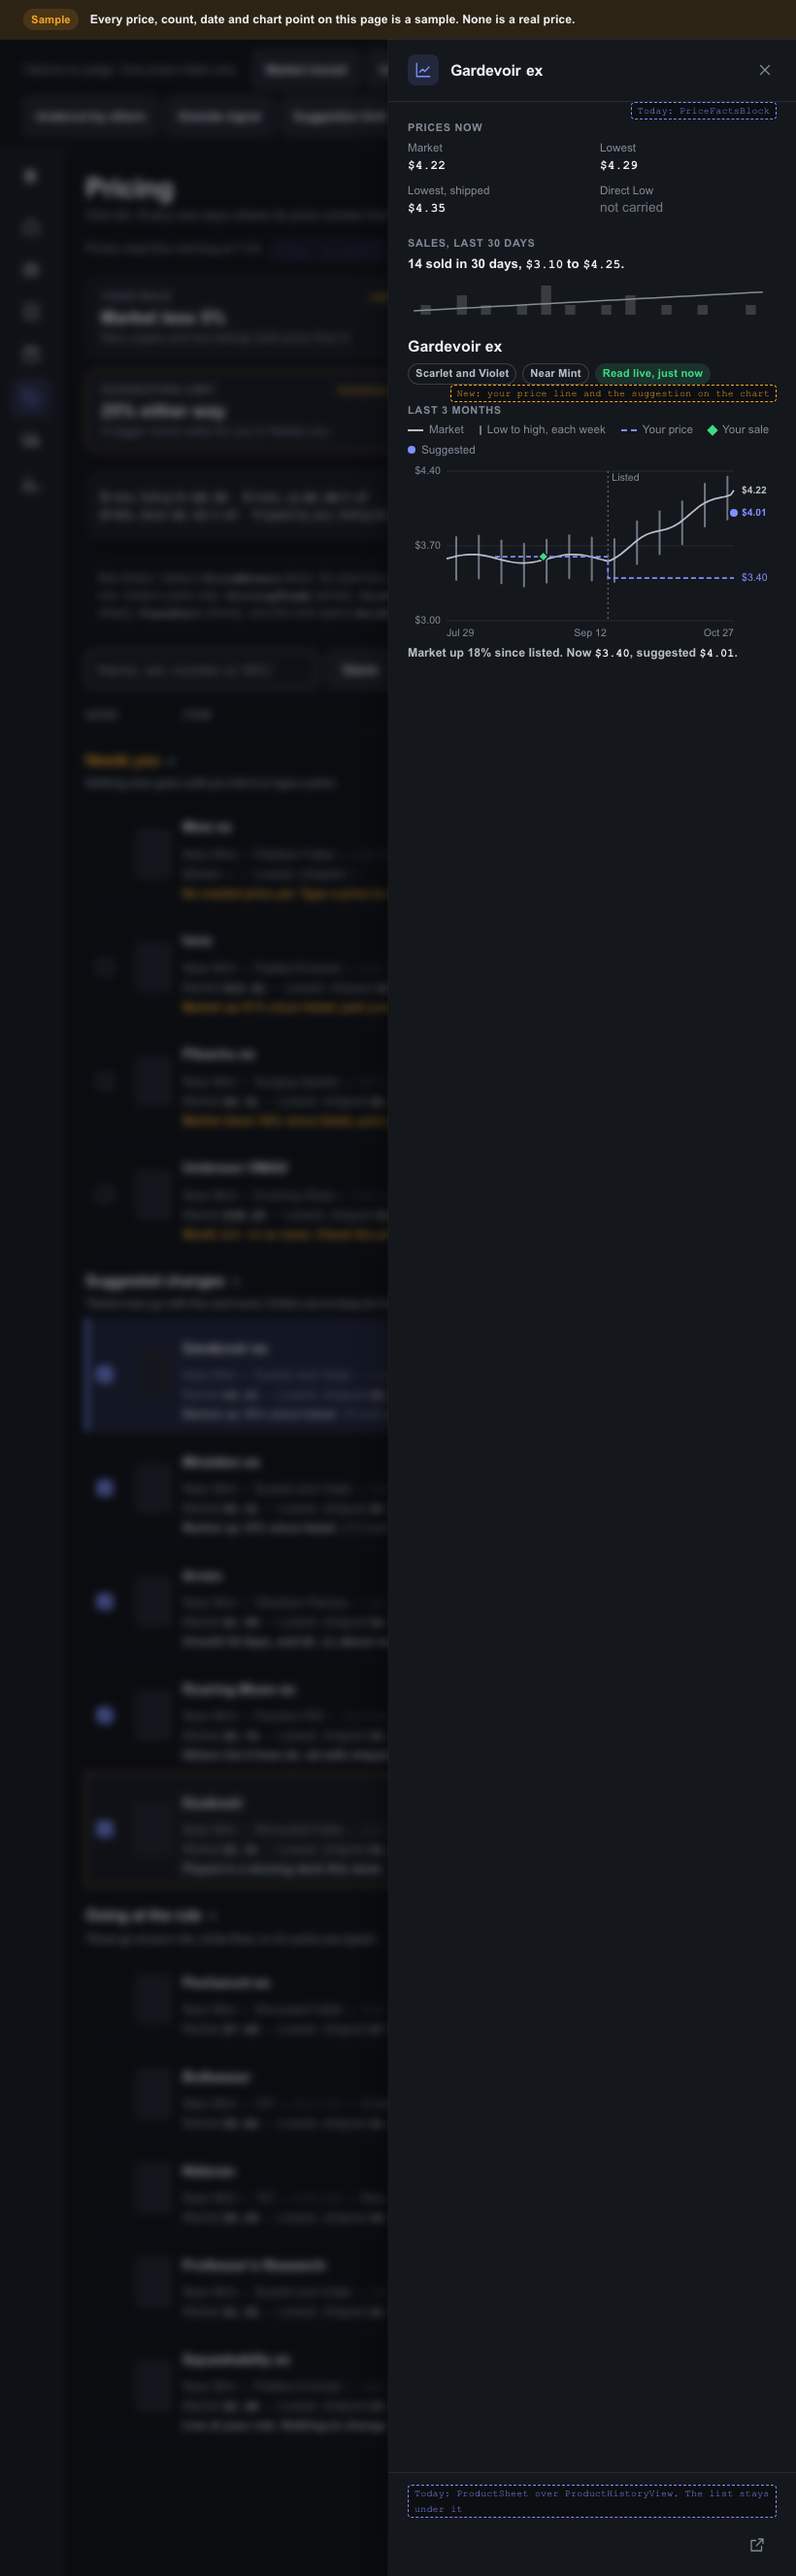
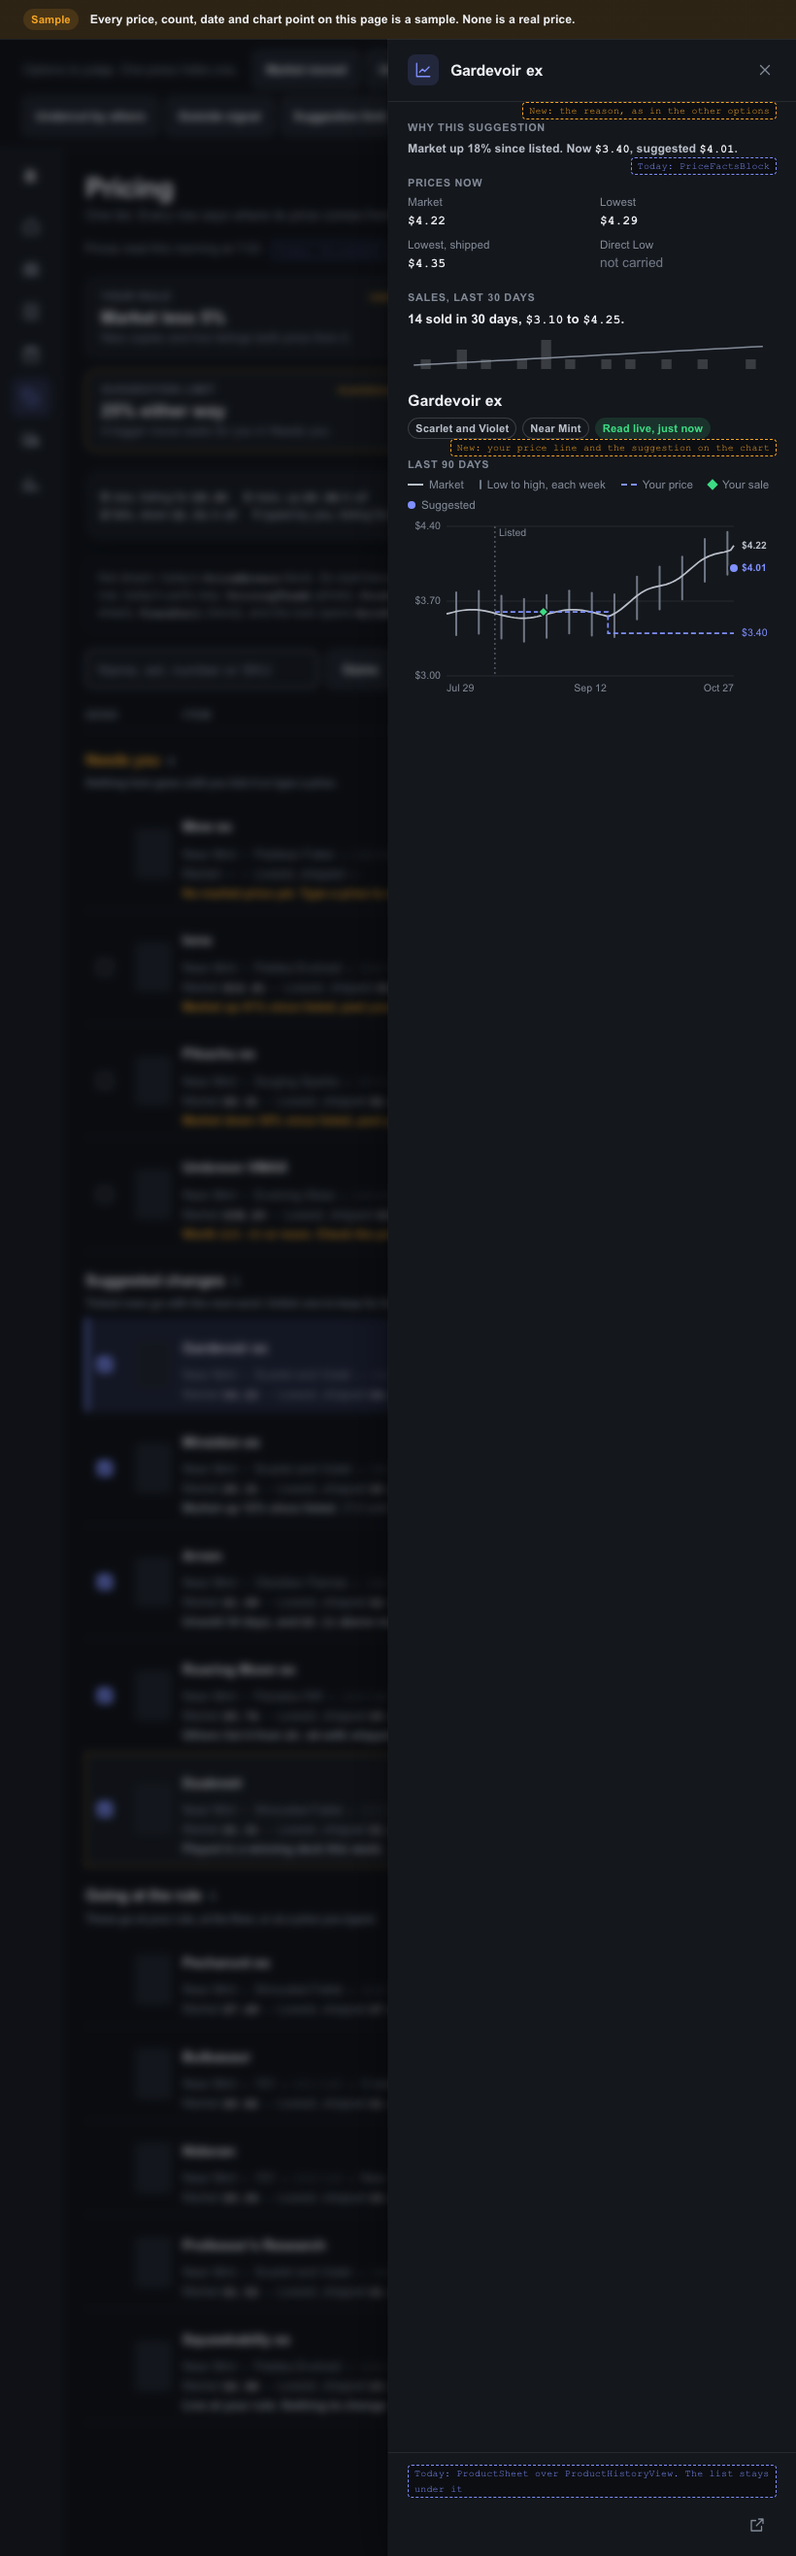
design: price history mockups, round 2 fixes
Done: the press note hides with the other notes, the sales bars match the sold count, the
sheet has the reason heading and a 90-day label, your price starts at listing, the row's
trend matches the chart, the open row's reason shows once.
Next: the owner picks one option.

diff --git a/docs/design/pricing-suggest/history-inline.html b/docs/design/pricing-suggest/history-inline.html
@@ -267,6 +267,7 @@
   .xp .today { bottom: auto; top: var(--bn-1); right: var(--bn-1); }
   .row[data-picked] { box-shadow: inset 3px 0 0 var(--bn-accent); background: var(--bn-surface); }
   .iconb[data-on] svg { transform: none; }
+  body.nonotes .press-note { display: none; }
   .press-note { grid-column: 1 / -1; font-size: var(--bn-fs-sm); color: var(--bn-ink-3); border: 1px dashed var(--bn-warn);
                 border-radius: var(--bn-r); padding: var(--bn-2) var(--bn-3); }
   .press-note b { color: var(--bn-ink); }
@@ -408,7 +409,7 @@
     ] },
     { g: 'suggested', title: 'Suggested changes', lede: 'Ticked rows go with the next send. Untick one to keep its live price.', rows: [
       { kind: 'live', name: 'Gardevoir ex', set: 'Scarlet and Violet', no: '086/198', market: 4.22, low: 4.35, now: 3.40, price: 4.01, src: 'Suggested', opt: 'moved',
-        why: 'Market up 18% since listed.', ev: ev(14, 3.10, 4.25), tick: true, spark: [4, 4, 5, 5, 6, 6, 7, 7], pct: '+9.8%' },
+        why: 'Market up 18% since listed.', ev: ev(14, 3.10, 4.25), tick: true, spark: [4, 4, 4, 4, 5, 6, 7, 8], pct: '+12.5%' },
       { kind: 'live', name: 'Miraidon ex', set: 'Scarlet and Violet', no: '081/198', market: 5.31, low: 5.60, now: 4.75, price: 5.04, src: 'Suggested', opt: 'moved',
         why: 'Market up 12% since listed.', ev: ev(212, 4.60, 5.80), tick: true, spark: [4, 4, 5, 5, 5, 5, 6, 6], pct: '+6.1%' },
       { kind: 'live', name: 'Arven', set: 'Obsidian Flames', no: '186/197', market: 1.99, low: 2.15, now: 2.10, price: 1.89, src: 'Suggested', opt: 'unsold',
@@ -526,8 +527,9 @@
     const m = Array.from({ length: 90 }, (_, d) => d < 50
       ? 3.58 + 0.04 * Math.sin(d / 5)
       : 3.58 + (4.22 - 3.58) * ((d - 50) / 39) + (d === 89 ? 0 : 0.03 * Math.sin(d / 3)))
-    return { m, listed: 50, sale: [30, 3.60], ask: [[15, 3.60], [50, 3.40]], now: 3.40, sug: 4.01,
-             dates: ['Jul 29', 'Sep 12', 'Oct 27'], sold: [14, 3.10, 4.25] }
+    const bars = [0, 1, 0, 0, 2, 0, 1, 0, 0, 1, 0, 3, 0, 1, 0, 0, 1, 0, 1, 0, 0, 1, 0, 0, 1, 0, 0, 0, 1, 0]
+    return { m, bars, listed: 15, sale: [30, 3.60], ask: [[15, 3.60], [50, 3.40]], now: 3.40, sug: 4.01,
+             dates: ['Jul 29', 'Sep 12', 'Oct 27'], sold: [bars.reduce((a, b) => a + b, 0), 3.10, 4.25] }
   })()
 
   function hxChart(W, H) {
@@ -567,12 +569,17 @@
     <div><dt>Lowest, shipped</dt><dd>${$(4.35)}</dd></div><div><dt>Direct Low</dt><dd class="dash">not carried</dd></div></dl>`
   function hxBars(W) {
     const n = 30, H = 36, slot = W / n
-    const v = Array.from({ length: n }, (_, i) => [0, 1, 0, 0, 2, 0, 1, 0, 0, 1, 0, 3, 0, 1, 0, 0, 1, 0, 2, 0, 0, 1, 0, 0, 1, 0, 0, 0, 1, 0][i])
+    const v = HX.bars
     const bars = v.map((c, i) => `<rect x="${i * slot + 1}" y="${H - c * 10}" width="${slot - 2}" height="${c * 10}"/>`).join('')
     const line = Array.from({ length: n }, (_, i) => `${i * slot + slot / 2},${H - 4 - (i / n) * 20}`).join(' ')
     return `<svg class="hx-bars" width="${W}" height="${H}" viewBox="0 0 ${W} ${H}" aria-hidden="true">${bars}<polyline points="${line}"/></svg>`
   }
-  const pickRow = (f) => [...f.querySelectorAll('.row')].find((r) => r.querySelector('.name').textContent === 'Gardevoir ex')
+  /* The open row: its reason and sold count show once, in the history area, so the row's own line steps aside. */
+  function pickRow(f) {
+    const row = [...f.querySelectorAll('.row')].find((r) => r.querySelector('.name').textContent === 'Gardevoir ex')
+    row.querySelector('.why').hidden = true
+    return row
+  }
 
   /* Today's ProductSheet over ProductHistoryView. extra: what the chart section adds. */
   function hxSheet(f, note) {
@@ -584,12 +591,13 @@
       <header class="bn-overlay-head"><span class="bn-overlay-icon">${svg('history', 18)}</span><h2 class="bn-overlay-title">Gardevoir ex</h2>
         <button class="bn-icon-btn iconb" type="button" aria-label="Close">${svg('close', 18)}</button></header>
       <div class="bn-overlay-body">
+        <section class="hx-block mark"><span class="today new">New: the reason, as in the other options</span><h3 class="hx-h">Why this suggestion</h3>${hxWhy()}</section>
         <section class="hx-block mark"><span class="today">Today: PriceFactsBlock</span><h3 class="hx-h">Prices now</h3>${hxFacts()}</section>
         <section class="hx-block"><h3 class="hx-h">Sales, last 30 days</h3>${hxSold()}${hxBars(372)}</section>
         <section class="hx-block"><p class="hx-name">Gardevoir ex</p>
           <p class="hx-pills"><span class="bn-pill bn-pill-outline">Scarlet and Violet</span><span class="bn-pill bn-pill-outline">Near Mint</span><span class="bn-pill bn-pill-ok">Read live, just now</span></p></section>
         <section class="hx-block mark"><span class="today new">New: your price line and the suggestion on the chart</span>
-          <h3 class="hx-h">Last 3 months</h3>${hxLegend()}${hxChart(380, 180)}${hxWhy()}</section>
+          <h3 class="hx-h">Last 90 days</h3>${hxLegend()}${hxChart(380, 180)}</section>
       </div>
       <footer class="bn-overlay-foot"><span class="today static">Today: ProductSheet over ProductHistoryView${note ? '. ' + note : ''}</span><span class="bn-grow"></span><button class="bn-icon-btn iconb" type="button" aria-label="Open as page" title="Open as page">${svg('external', 18)}</button></footer>
     </aside>`)

diff --git a/docs/design/pricing-suggest/history-panel.html b/docs/design/pricing-suggest/history-panel.html
@@ -412,7 +412,7 @@
     ] },
     { g: 'suggested', title: 'Suggested changes', lede: 'Ticked rows go with the next send. Untick one to keep its live price.', rows: [
       { kind: 'live', name: 'Gardevoir ex', set: 'Scarlet and Violet', no: '086/198', market: 4.22, low: 4.35, now: 3.40, price: 4.01, src: 'Suggested', opt: 'moved',
-        why: 'Market up 18% since listed.', ev: ev(14, 3.10, 4.25), tick: true, spark: [4, 4, 5, 5, 6, 6, 7, 7], pct: '+9.8%' },
+        why: 'Market up 18% since listed.', ev: ev(14, 3.10, 4.25), tick: true, spark: [4, 4, 4, 4, 5, 6, 7, 8], pct: '+12.5%' },
       { kind: 'live', name: 'Miraidon ex', set: 'Scarlet and Violet', no: '081/198', market: 5.31, low: 5.60, now: 4.75, price: 5.04, src: 'Suggested', opt: 'moved',
         why: 'Market up 12% since listed.', ev: ev(212, 4.60, 5.80), tick: true, spark: [4, 4, 5, 5, 5, 5, 6, 6], pct: '+6.1%' },
       { kind: 'live', name: 'Arven', set: 'Obsidian Flames', no: '186/197', market: 1.99, low: 2.15, now: 2.10, price: 1.89, src: 'Suggested', opt: 'unsold',
@@ -530,8 +530,9 @@
     const m = Array.from({ length: 90 }, (_, d) => d < 50
       ? 3.58 + 0.04 * Math.sin(d / 5)
       : 3.58 + (4.22 - 3.58) * ((d - 50) / 39) + (d === 89 ? 0 : 0.03 * Math.sin(d / 3)))
-    return { m, listed: 50, sale: [30, 3.60], ask: [[15, 3.60], [50, 3.40]], now: 3.40, sug: 4.01,
-             dates: ['Jul 29', 'Sep 12', 'Oct 27'], sold: [14, 3.10, 4.25] }
+    const bars = [0, 1, 0, 0, 2, 0, 1, 0, 0, 1, 0, 3, 0, 1, 0, 0, 1, 0, 1, 0, 0, 1, 0, 0, 1, 0, 0, 0, 1, 0]
+    return { m, bars, listed: 15, sale: [30, 3.60], ask: [[15, 3.60], [50, 3.40]], now: 3.40, sug: 4.01,
+             dates: ['Jul 29', 'Sep 12', 'Oct 27'], sold: [bars.reduce((a, b) => a + b, 0), 3.10, 4.25] }
   })()
 
   function hxChart(W, H) {
@@ -571,12 +572,17 @@
     <div><dt>Lowest, shipped</dt><dd>${$(4.35)}</dd></div><div><dt>Direct Low</dt><dd class="dash">not carried</dd></div></dl>`
   function hxBars(W) {
     const n = 30, H = 36, slot = W / n
-    const v = Array.from({ length: n }, (_, i) => [0, 1, 0, 0, 2, 0, 1, 0, 0, 1, 0, 3, 0, 1, 0, 0, 1, 0, 2, 0, 0, 1, 0, 0, 1, 0, 0, 0, 1, 0][i])
+    const v = HX.bars
     const bars = v.map((c, i) => `<rect x="${i * slot + 1}" y="${H - c * 10}" width="${slot - 2}" height="${c * 10}"/>`).join('')
     const line = Array.from({ length: n }, (_, i) => `${i * slot + slot / 2},${H - 4 - (i / n) * 20}`).join(' ')
     return `<svg class="hx-bars" width="${W}" height="${H}" viewBox="0 0 ${W} ${H}" aria-hidden="true">${bars}<polyline points="${line}"/></svg>`
   }
-  const pickRow = (f) => [...f.querySelectorAll('.row')].find((r) => r.querySelector('.name').textContent === 'Gardevoir ex')
+  /* The open row: its reason and sold count show once, in the history area, so the row's own line steps aside. */
+  function pickRow(f) {
+    const row = [...f.querySelectorAll('.row')].find((r) => r.querySelector('.name').textContent === 'Gardevoir ex')
+    row.querySelector('.why').hidden = true
+    return row
+  }
 
   /* Today's ProductSheet over ProductHistoryView. extra: what the chart section adds. */
   function hxSheet(f, note) {
@@ -588,12 +594,13 @@
       <header class="bn-overlay-head"><span class="bn-overlay-icon">${svg('history', 18)}</span><h2 class="bn-overlay-title">Gardevoir ex</h2>
         <button class="bn-icon-btn iconb" type="button" aria-label="Close">${svg('close', 18)}</button></header>
       <div class="bn-overlay-body">
+        <section class="hx-block mark"><span class="today new">New: the reason, as in the other options</span><h3 class="hx-h">Why this suggestion</h3>${hxWhy()}</section>
         <section class="hx-block mark"><span class="today">Today: PriceFactsBlock</span><h3 class="hx-h">Prices now</h3>${hxFacts()}</section>
         <section class="hx-block"><h3 class="hx-h">Sales, last 30 days</h3>${hxSold()}${hxBars(372)}</section>
         <section class="hx-block"><p class="hx-name">Gardevoir ex</p>
           <p class="hx-pills"><span class="bn-pill bn-pill-outline">Scarlet and Violet</span><span class="bn-pill bn-pill-outline">Near Mint</span><span class="bn-pill bn-pill-ok">Read live, just now</span></p></section>
         <section class="hx-block mark"><span class="today new">New: your price line and the suggestion on the chart</span>
-          <h3 class="hx-h">Last 3 months</h3>${hxLegend()}${hxChart(380, 180)}${hxWhy()}</section>
+          <h3 class="hx-h">Last 90 days</h3>${hxLegend()}${hxChart(380, 180)}</section>
       </div>
       <footer class="bn-overlay-foot"><span class="today static">Today: ProductSheet over ProductHistoryView${note ? '. ' + note : ''}</span><span class="bn-grow"></span><button class="bn-icon-btn iconb" type="button" aria-label="Open as page" title="Open as page">${svg('external', 18)}</button></footer>
     </aside>`)

diff --git a/docs/design/pricing-suggest/history-sheet.html b/docs/design/pricing-suggest/history-sheet.html
@@ -394,7 +394,7 @@
     ] },
     { g: 'suggested', title: 'Suggested changes', lede: 'Ticked rows go with the next send. Untick one to keep its live price.', rows: [
       { kind: 'live', name: 'Gardevoir ex', set: 'Scarlet and Violet', no: '086/198', market: 4.22, low: 4.35, now: 3.40, price: 4.01, src: 'Suggested', opt: 'moved',
-        why: 'Market up 18% since listed.', ev: ev(14, 3.10, 4.25), tick: true, spark: [4, 4, 5, 5, 6, 6, 7, 7], pct: '+9.8%' },
+        why: 'Market up 18% since listed.', ev: ev(14, 3.10, 4.25), tick: true, spark: [4, 4, 4, 4, 5, 6, 7, 8], pct: '+12.5%' },
       { kind: 'live', name: 'Miraidon ex', set: 'Scarlet and Violet', no: '081/198', market: 5.31, low: 5.60, now: 4.75, price: 5.04, src: 'Suggested', opt: 'moved',
         why: 'Market up 12% since listed.', ev: ev(212, 4.60, 5.80), tick: true, spark: [4, 4, 5, 5, 5, 5, 6, 6], pct: '+6.1%' },
       { kind: 'live', name: 'Arven', set: 'Obsidian Flames', no: '186/197', market: 1.99, low: 2.15, now: 2.10, price: 1.89, src: 'Suggested', opt: 'unsold',
@@ -512,8 +512,9 @@
     const m = Array.from({ length: 90 }, (_, d) => d < 50
       ? 3.58 + 0.04 * Math.sin(d / 5)
       : 3.58 + (4.22 - 3.58) * ((d - 50) / 39) + (d === 89 ? 0 : 0.03 * Math.sin(d / 3)))
-    return { m, listed: 50, sale: [30, 3.60], ask: [[15, 3.60], [50, 3.40]], now: 3.40, sug: 4.01,
-             dates: ['Jul 29', 'Sep 12', 'Oct 27'], sold: [14, 3.10, 4.25] }
+    const bars = [0, 1, 0, 0, 2, 0, 1, 0, 0, 1, 0, 3, 0, 1, 0, 0, 1, 0, 1, 0, 0, 1, 0, 0, 1, 0, 0, 0, 1, 0]
+    return { m, bars, listed: 15, sale: [30, 3.60], ask: [[15, 3.60], [50, 3.40]], now: 3.40, sug: 4.01,
+             dates: ['Jul 29', 'Sep 12', 'Oct 27'], sold: [bars.reduce((a, b) => a + b, 0), 3.10, 4.25] }
   })()
 
   function hxChart(W, H) {
@@ -553,12 +554,17 @@
     <div><dt>Lowest, shipped</dt><dd>${$(4.35)}</dd></div><div><dt>Direct Low</dt><dd class="dash">not carried</dd></div></dl>`
   function hxBars(W) {
     const n = 30, H = 36, slot = W / n
-    const v = Array.from({ length: n }, (_, i) => [0, 1, 0, 0, 2, 0, 1, 0, 0, 1, 0, 3, 0, 1, 0, 0, 1, 0, 2, 0, 0, 1, 0, 0, 1, 0, 0, 0, 1, 0][i])
+    const v = HX.bars
     const bars = v.map((c, i) => `<rect x="${i * slot + 1}" y="${H - c * 10}" width="${slot - 2}" height="${c * 10}"/>`).join('')
     const line = Array.from({ length: n }, (_, i) => `${i * slot + slot / 2},${H - 4 - (i / n) * 20}`).join(' ')
     return `<svg class="hx-bars" width="${W}" height="${H}" viewBox="0 0 ${W} ${H}" aria-hidden="true">${bars}<polyline points="${line}"/></svg>`
   }
-  const pickRow = (f) => [...f.querySelectorAll('.row')].find((r) => r.querySelector('.name').textContent === 'Gardevoir ex')
+  /* The open row: its reason and sold count show once, in the history area, so the row's own line steps aside. */
+  function pickRow(f) {
+    const row = [...f.querySelectorAll('.row')].find((r) => r.querySelector('.name').textContent === 'Gardevoir ex')
+    row.querySelector('.why').hidden = true
+    return row
+  }
 
   /* Today's ProductSheet over ProductHistoryView. extra: what the chart section adds. */
   function hxSheet(f, note) {
@@ -570,12 +576,13 @@
       <header class="bn-overlay-head"><span class="bn-overlay-icon">${svg('history', 18)}</span><h2 class="bn-overlay-title">Gardevoir ex</h2>
         <button class="bn-icon-btn iconb" type="button" aria-label="Close">${svg('close', 18)}</button></header>
       <div class="bn-overlay-body">
+        <section class="hx-block mark"><span class="today new">New: the reason, as in the other options</span><h3 class="hx-h">Why this suggestion</h3>${hxWhy()}</section>
         <section class="hx-block mark"><span class="today">Today: PriceFactsBlock</span><h3 class="hx-h">Prices now</h3>${hxFacts()}</section>
         <section class="hx-block"><h3 class="hx-h">Sales, last 30 days</h3>${hxSold()}${hxBars(372)}</section>
         <section class="hx-block"><p class="hx-name">Gardevoir ex</p>
           <p class="hx-pills"><span class="bn-pill bn-pill-outline">Scarlet and Violet</span><span class="bn-pill bn-pill-outline">Near Mint</span><span class="bn-pill bn-pill-ok">Read live, just now</span></p></section>
         <section class="hx-block mark"><span class="today new">New: your price line and the suggestion on the chart</span>
-          <h3 class="hx-h">Last 3 months</h3>${hxLegend()}${hxChart(380, 180)}${hxWhy()}</section>
+          <h3 class="hx-h">Last 90 days</h3>${hxLegend()}${hxChart(380, 180)}</section>
       </div>
       <footer class="bn-overlay-foot"><span class="today static">Today: ProductSheet over ProductHistoryView${note ? '. ' + note : ''}</span><span class="bn-grow"></span><button class="bn-icon-btn iconb" type="button" aria-label="Open as page" title="Open as page">${svg('external', 18)}</button></footer>
     </aside>`)

diff --git a/docs/design/pricing-suggest/history-notes.md b/docs/design/pricing-suggest/history-notes.md
@@ -6,8 +6,10 @@ The owner picks one option. Owner word: yes. Open: which option?
 
 All three draw the same chart: today's `ProductChart` (market line, the low-to-high spread each
 week, the owner's sales as diamonds), with two new marks: the owner's own asking price as a
-dashed step line, and the suggestion as a dot. Each also states the sold range, "14 sold in 30
-days, $3.10 to $4.25".
+dashed step line from the day it was listed, and the suggestion as a dot. Each states the reason
+and the sold range, "14 sold in 30 days, $3.10 to $4.25", once, in the history area. The open
+row's own reason line steps aside while its history shows. The row's 30-day trend is read off
+the chart's market line, so the two agree.
 
 1. **Keep the sheet** (`history-sheet.html`). The history door opens today's `ProductSheet` over
    `ProductHistoryView`, 420px at the right, at 1440 and 820.
@@ -27,7 +29,8 @@ days, $3.10 to $4.25".
    beside the list and shows the selected row. The list takes the 820 row shape to make room.
    At 820 the panel does not fit, so the history door opens today's sheet, as in option 1.
    - Gain: the history updates as the owner moves down the list, with no press per row.
-   - Loss: the list loses its Market, Lowest and Trend columns at 1440, and the two widths
-     behave differently.
+   - Loss: at 1440 the list loses only its Trend chart. Market and Lowest, shipped stay, in the
+     line under the name, and the price source sits under the price. The two widths behave
+     differently.
    - The Up and Down arrows move the selection. A new key binding must go in `SHORTCUTS` before
      it is done.
